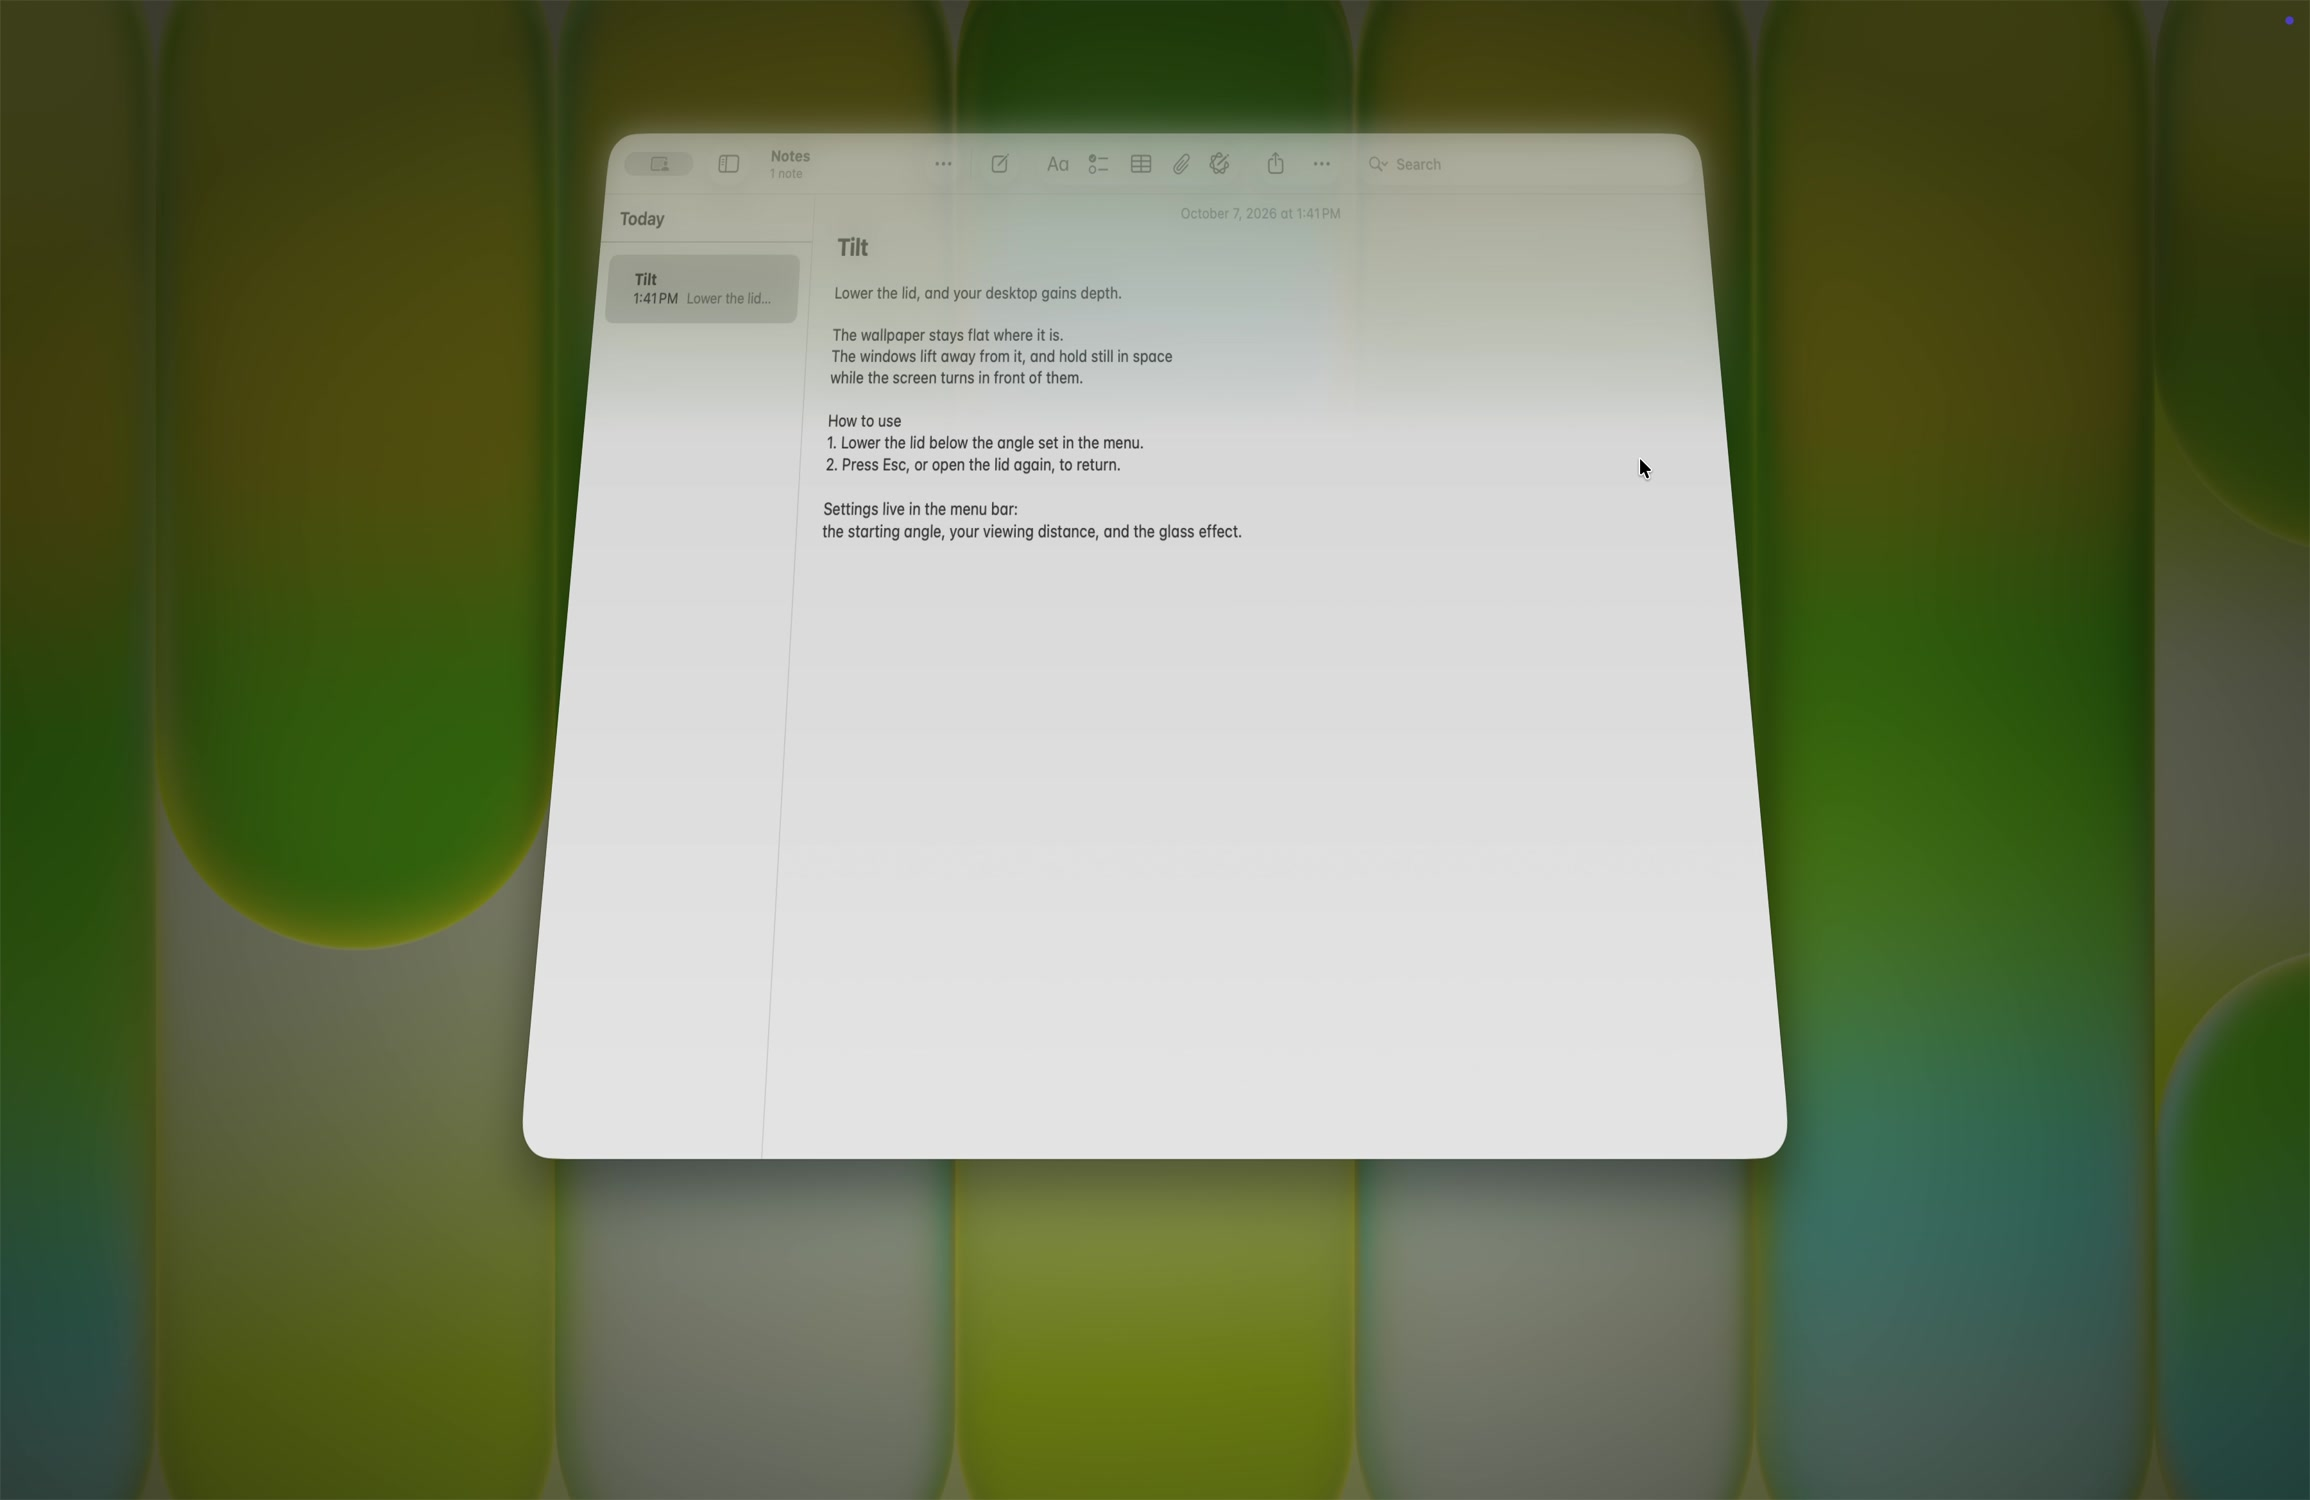
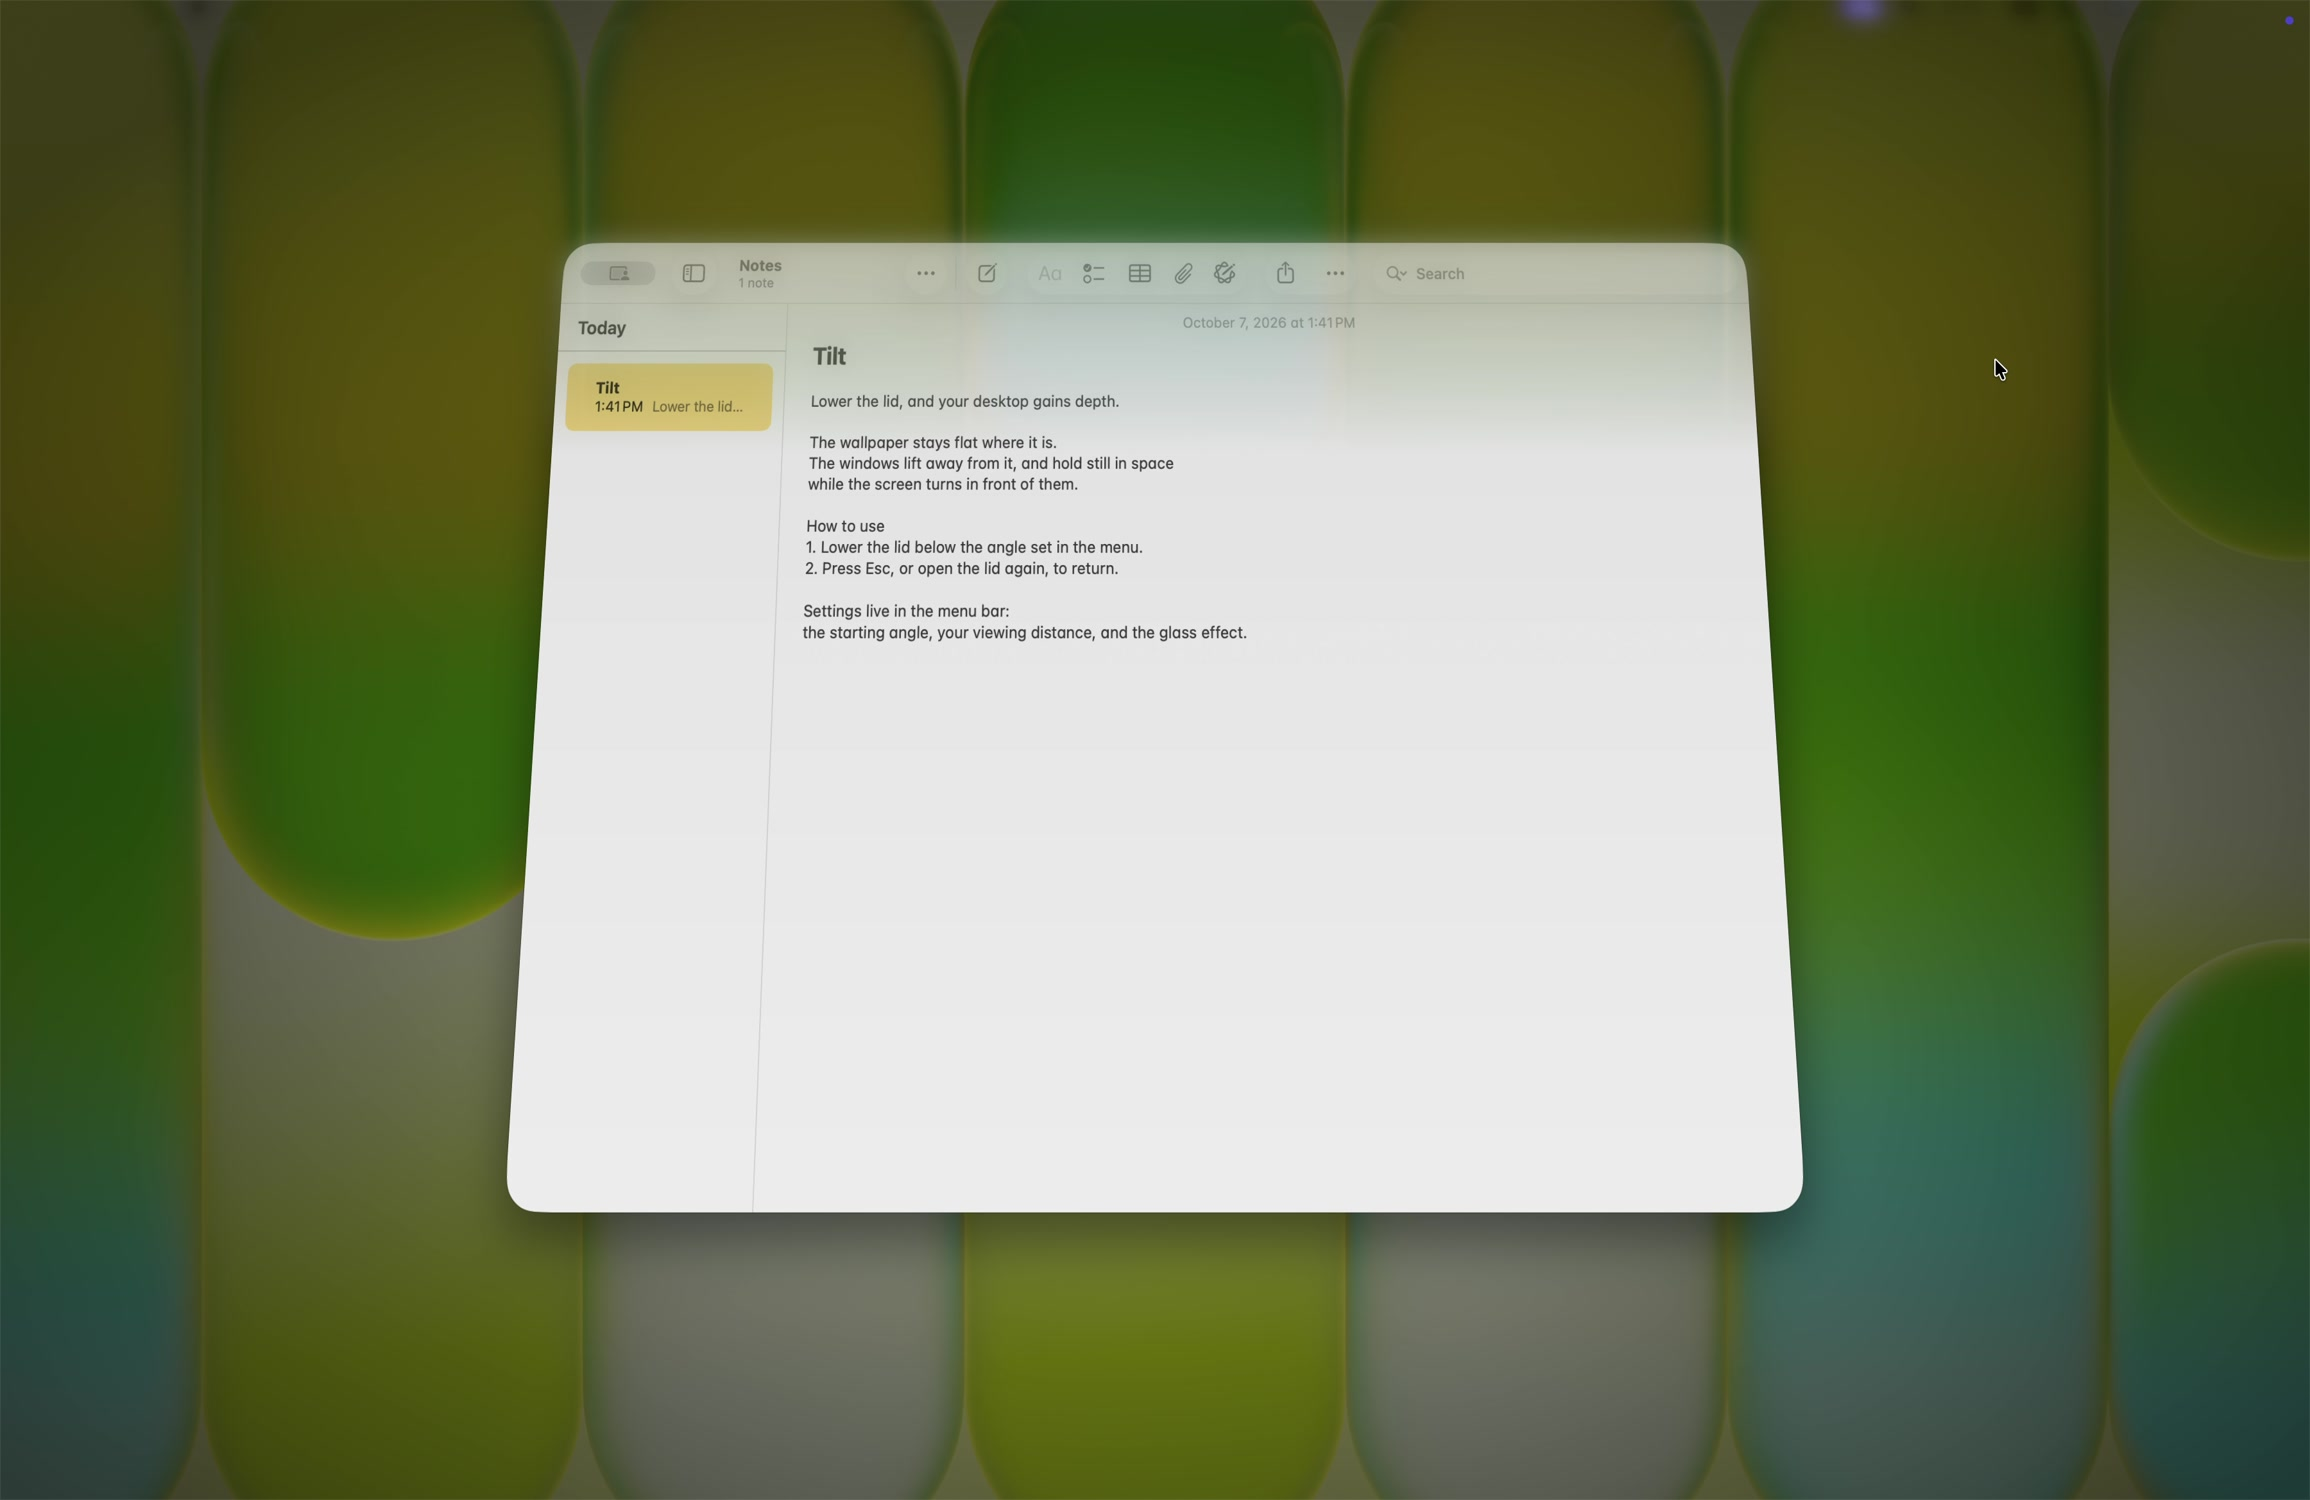
docs(appstore): fold the fifth screenshot's lid to the captured angle
The frame was taken with the lid lowered, but the render stood it open
at 100 degrees, where Tilt is never engaged. It now uses the frame just
before Esc in the review recording (lid at 67 degrees) on a lid at 67
degrees, with the demo's own effect held off so the real one is not
drawn twice.

diff --git a/docs/appstore/source/shots.js b/docs/appstore/source/shots.js
@@ -1,13 +1,13 @@
 import '@site/style.css';
-import { createDemo } from '@site/demo.js';
 const q = new URLSearchParams(location.search);
 const s = Number(q.get('s') || 1);
 if (q.has('social')) document.documentElement.classList.add('social');
 document.querySelector(`.shot[data-s="${s}"]`).classList.add('on');
-const scenes = { 1: { angle: 78, view: 1, orbit: 0 }, 2: { angle: 58, view: 1, orbit: 0 }, 3: { angle: 45, view: 1, orbit: 1 }, 5: { angle: 100, view: 1, orbit: 0 } };
-// Scene 5 shows a frame of the real app, from the App Review recording (1-launch-permission-effect.mov
-// at 0:37, lid at 88 degrees), on the screen of an open lid: the store wants the actual app in use.
-// So the demo's two drawn layers become that frame and nothing, before the demo loads them.
+const scenes = { 1: { angle: 78, view: 1, orbit: 0 }, 2: { angle: 58, view: 1, orbit: 0 }, 3: { angle: 45, view: 1, orbit: 1 }, 5: { angle: 67, view: 1, orbit: 0 } };
+// Scene 5 shows a frame of the real app, from the App Review recording (3-esc-dismiss.mov at 0:18,
+// lid at 67 degrees, just before Esc), on a lid at that angle: the store wants the actual app in use.
+// So the demo's two drawn layers become that frame and nothing, and its own effect stays off
+// (demo.js?still, vite.config.mjs), since the frame already carries the real one.
 if (s === 5) {
   const swap = { '/screen-wall.webp': './real-screen.jpg',
[1 lines of base64/hex data omitted]
@@ -18,6 +18,7 @@ if (s === 5) {
 const canvas = document.querySelector('#demo');
 if (!scenes[s]) { canvas.remove(); document.querySelector('#hills').style.opacity = s === 4 ? .5 : .35; window.__ready = true; }
 else {
+  const { createDemo } = await (s === 5 ? import('@site/demo.js?still') : import('@site/demo.js'));
   const demo = await createDemo(canvas);
   const sc = scenes[s];
   // Ease down through the threshold so the effect engages the way it does on a real lid.
